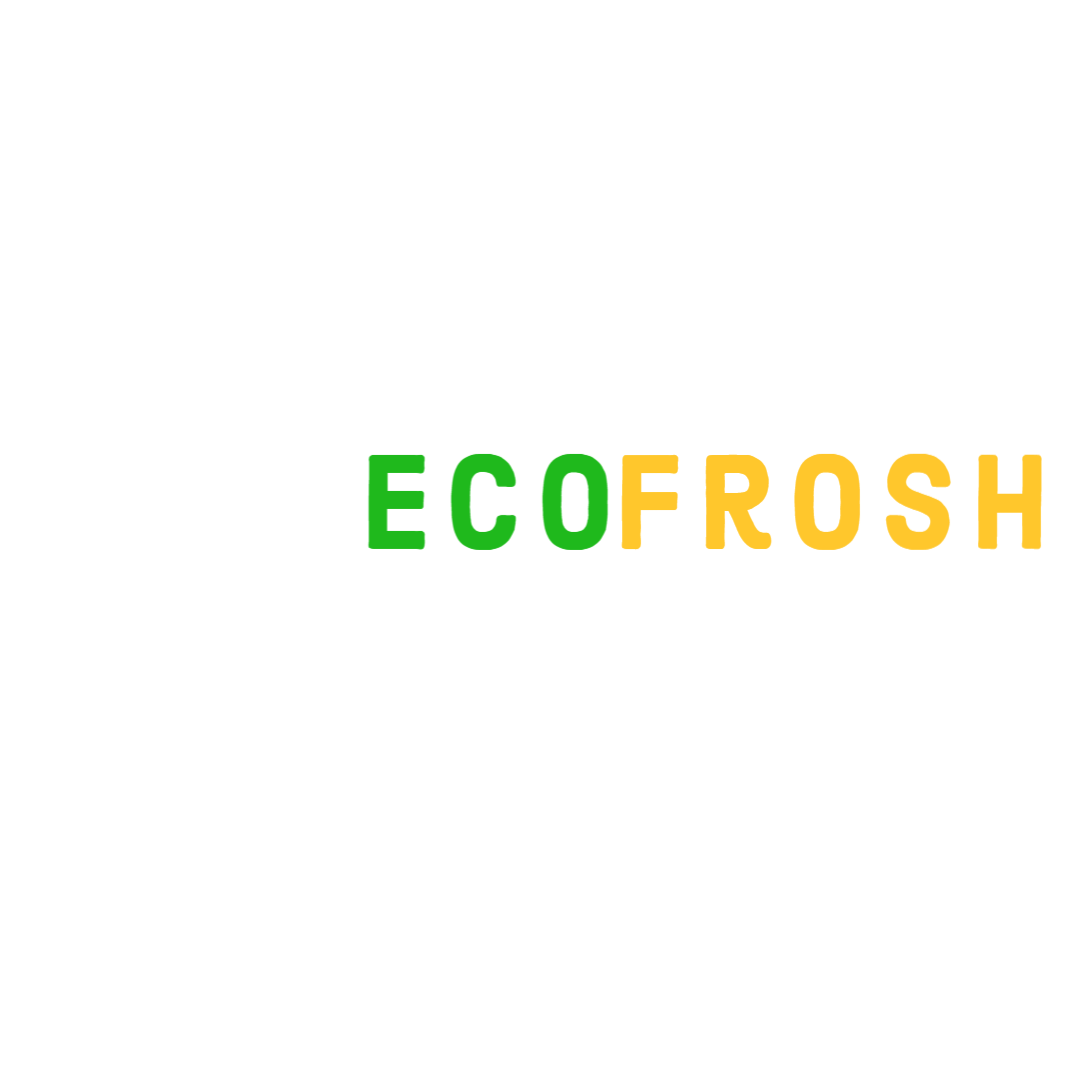
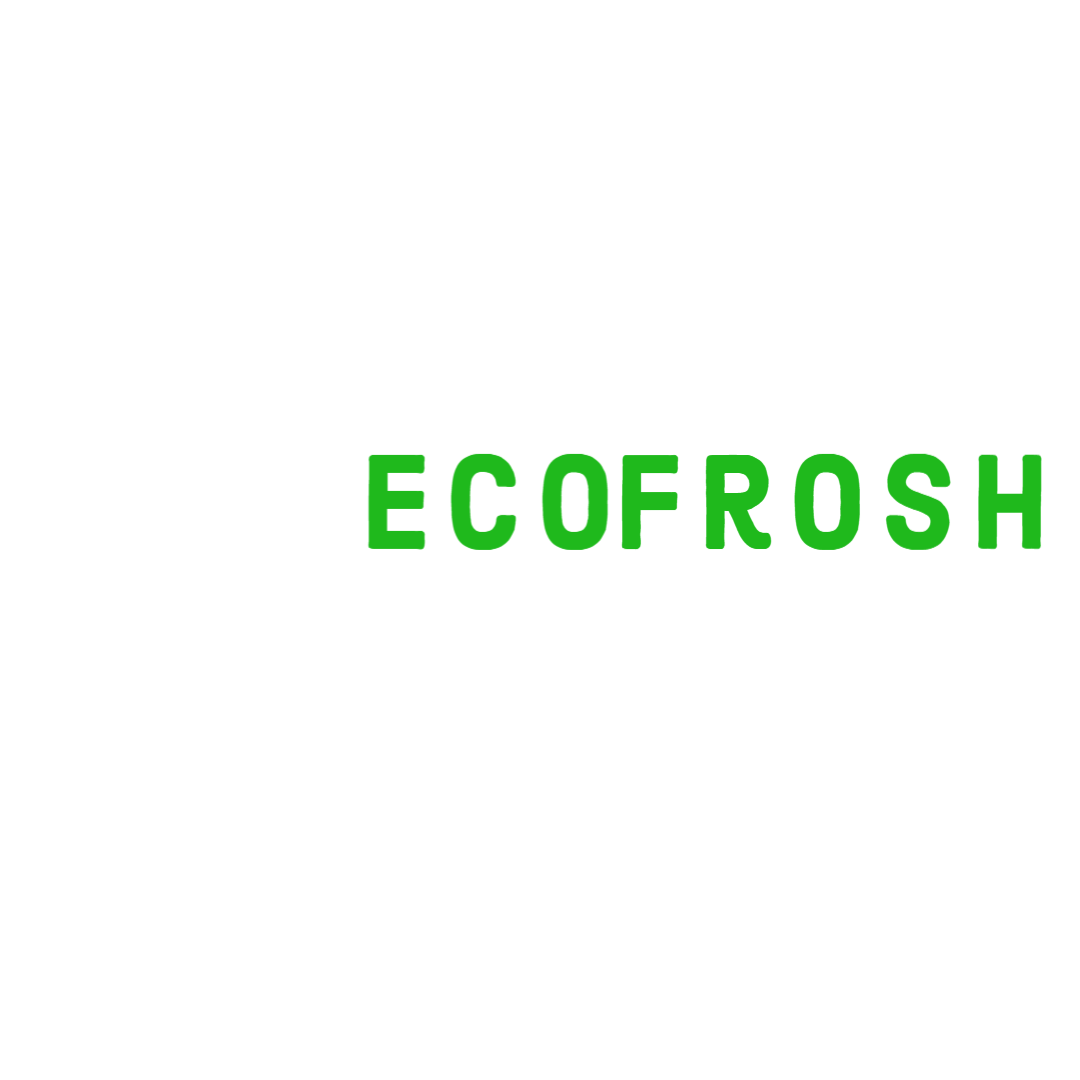
final

Changed region(s): [[0.55, 0.3972, 0.9778, 0.5194]]

diff --git a/profile.html b/profile.html
@@ -183,7 +183,7 @@
                                             </li>
                                             <li>
                                                 <div class="overlay-link"></div>
-                                                <a href=" accounts.html"><i class="lni lni-user"></i>Account</a>
+                                                <a href=" profile.html"><i class="lni lni-user"></i>Account</a>
                                             </li>
                                             <li>
                                                 <div class="overlay-link"></div>
@@ -269,7 +269,7 @@
                     <nav aria-label="breadcrumb" class="breadcrumb-items">
                         <ol class="breadcrumb">
                             <li class="breadcrumb-item"><a href="../index-food-delivery.html" class="link">Home</a></li>
-                            <li class="breadcrumb-item"><a href="accounts.html" class="link">Account</a></li>
+                            <li class="breadcrumb-item"><a href="profile.html" class="link">Account</a></li>
                         </ol>
                     </nav>
                 </div>

diff --git a/index.html b/index.html
@@ -277,7 +277,7 @@
                          data-paddingbottom="[0,0,0,0]"
                          data-paddingleft="[0,0,0,0]"
 
-                         style="z-index: 5; white-space: nowrap; font-size: 28px; line-height: 70px; font-weight: 300;opacity: .8; color: #ffffff; letter-spacing: 0;font-family:'Roboto', sans-serif;">Lorem ipsum dolor sit amet purus.</div>
+                         style="z-index: 5; white-space: nowrap; font-size: 28px; line-height: 70px; font-weight: 300;opacity: .8; color: #1FB91C; letter-spacing: 0;font-family:'Roboto', sans-serif;">Lorem ipsum dolor sit amet purus.</div>
 
                     <!-- LAYER NR. 2 -->
                     <div class="tp-caption   tp-resizeme rs-parallaxlevel-1"

diff --git a/about.html b/about.html
@@ -185,7 +185,7 @@
                                             </li>
                                             <li>
                                                 <div class="overlay-link"></div>
-                                                <a href=" accounts.html"><i class="lni lni-user"></i>Account</a>
+                                                <a href=" profile.html"><i class="lni lni-user"></i>Account</a>
                                             </li>
                                             <li>
                                                 <div class="overlay-link"></div>

diff --git a/css/css-style.css b/css/css-style.css
@@ -481,7 +481,7 @@ ul {
 }
 
 .sub-heading {
-    background: linear-gradient(to right, #f4c05f 50%, #058240 100%);
+    background-color: #1FB91C;
     -webkit-background-clip: text;
     -webkit-text-fill-color: transparent;
     font-family: 'Roboto', sans-serif;
@@ -506,7 +506,7 @@ ul {
 }
 
 .heading {
-    color: #ffffff;
+    color: #FFC72C;
     font-family: 'Grand Hotel', cursive;
     font-size: 72px;
     font-weight: 400;
@@ -526,7 +526,7 @@ ul {
 }
 
 .color-white {
-    color: #ffffff;
+    color: #FFC72C;
 }
 
 .white-trans-btn {
